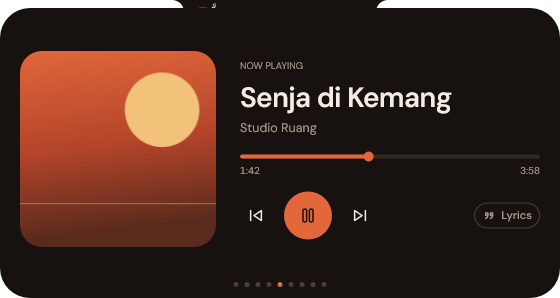
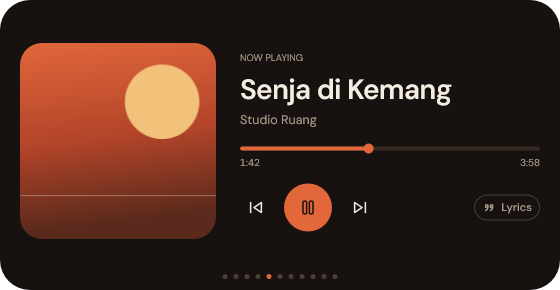
chore(release): version 3.2.0, README gallery and screenshots, v3.2 handoff note (v3.2 Run 13)

diff --git a/docs/memory/v3-2-handoff.md b/docs/memory/v3-2-handoff.md
@@ -1,0 +1,35 @@
+---
+tags: [handoff, v3.2]
+date: 2026-10-28
+---
+
+# v3.2 handoff
+
+Version `3.2.0` (Cargo.toml, Cargo.lock), `cargo test --locked` 966 passed. Not
+pushed, not tagged: pushing `main` and the `v3.2.0` tag are the owner's calls.
+
+Done, one commit per run (plan: `docs/design/rencana-v3.2.pdf`):
+[[open-mode]] (Mode buka, notices with buttons), clipboard scroll, screenshot
+preview ([[screenshot-preview]]), [[lyrics-sync]], Google messages
+([[google-built-in-client]]), the flat-based cat ([[bata-robot-expressions]]),
+[[shortcut-tiles]], [[gestures]], [[mixer]], [[search]], [[shelf]].
+
+**Not done:** "Di belakang jendela" (Run 12, the plan's optional experiment,
+off by default): it fights over z-order with fullscreen apps and games and
+could leave the island unreachable, so it waits for a live test and the
+owner's say. File search in the quick search; a form to add custom shortcut
+tiles in Settings (config.json for now) and a "Perintah" tile kind.
+
+**Owner steps:** register the Google Cloud project and set the two repository
+secrets (login without Cloud Console for users depends on it); install
+superpowers (`claude plugin install superpowers@claude-plugins-official
+--scope user`; the classifier denied the agent); decide the search hotkey
+default (Off now), the open-mode default (Hover now) and the cat variant.
+
+**Needs live checks** (the code was written and unit-tested, never run against
+the real thing): Windows clipboard formats of Snipping Tool and the preview;
+real YouTube Music / Spotify positions for lyrics; click behaviours (media
+press/release guard, outside-click poll); IME in the search and clipboard
+fields; hotkey conflicts; fullscreen focus; Core Audio sessions and drag feel
+in the Mixer; OLE drop onto the layered window and drag-out of the shelf;
+a touchpad's sideways scroll.

diff --git a/README.md b/README.md
@@ -10,6 +10,11 @@ A macOS-style island for the top of your Windows 11 screen: notifications, calen
   <img src="assets/screenshots/calendar.png" width="420" alt="Calendar page in month view: October 2026 with today circled in terracotta, and today's events listed on the right">
   <img src="assets/screenshots/shortcuts.png" width="420" alt="Shortcuts page: eight tiles for Screenshot, Clipboard, Emoji, Explorer, Calculator, Task Manager, Windows Settings and Lock screen">
 </p>
+<p align="center">
+  <img src="assets/screenshots/mixer.png" width="280" alt="Mixer page: a master volume slider and sliders for three apps">
+  <img src="assets/screenshots/search.png" width="280" alt="Quick search: a field with an app, a Windows settings page, a calculator result and a web search row">
+  <img src="assets/screenshots/shelf.png" width="280" alt="File shelf: cards for dropped files, one dimmed because the file is gone">
+</p>
 
 Design documents (in Indonesian) are in [`docs/design/`](docs/design/).
 

diff --git a/docs/memory/index.md b/docs/memory/index.md
@@ -40,6 +40,7 @@ One note per decision, gotcha or convention. Link each new note here.
 - [[lyrics-sync]]: position rate, resync tolerance, lookahead, offset buttons, lrclib title clean + search fallback
 - [[shortcut-tiles]]: Pintasan tiles chosen in Settings, own tiles (app, folder, URL) from config.json
 - [[gestures]]: middle click, swipe and sideways wheel on the music views
+- [[v3-2-handoff]]: where v3.2 stands, what is unverified, owner steps
 - [[shelf]]: file shelf page, OLE drop target, drag out (paths only, in memory)
 - [[search]]: quick search on a hotkey: apps, calculator, Windows settings, web
 - [[mixer]]: Mixer page, per-app volume through a Core Audio worker thread
